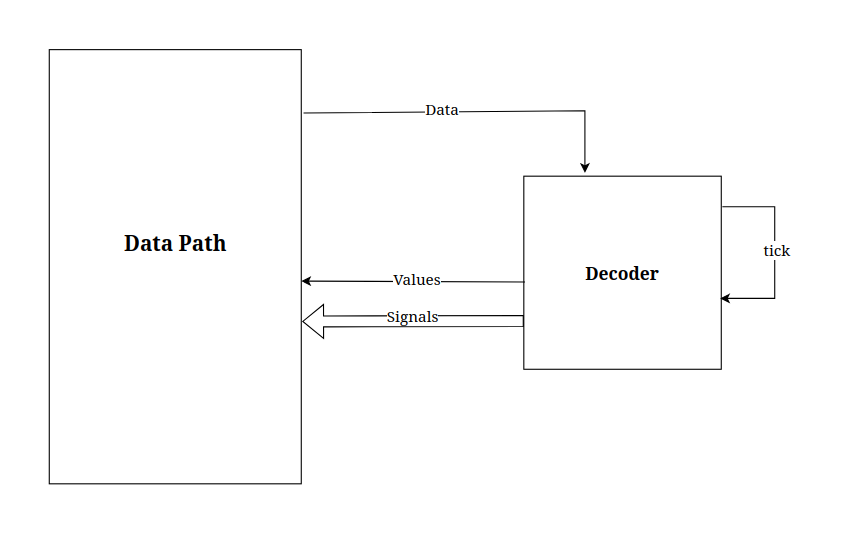
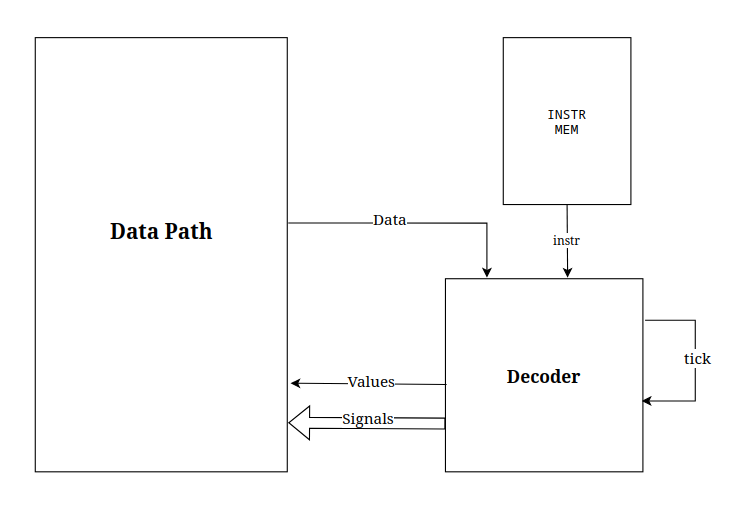
small fix

diff --git a/README.md b/README.md
@@ -58,37 +58,35 @@ csa3
 
 Память содержит `2^11` ячеек
 
-Память представляет из себя четыре секции:
+Память представляет из себя два раздела:
 
 ```text
-    +-----------------+
-    |   JMP_TO_START  |
-    |   JMP_TO_INT    |
-    +-----------------+
-    |      DATA       |
-    |                 |
-    |                 |
-    |                 |
-    +-----------------+
-    |      CODE       |
-    |                 |
-    |                 |
-    |                 |
-    +-----------------+
-            ...
-    +-----------------+
-    |      STACK      |
-    |                 |
-    |                 |
-    +-----------------+
+    +-----------------+       +-----------------+
+    |                 |       |   JMP_TO_INT    |
+    |                 |       +-----------------+
+    |                 |       |                 |
+    |                 |       |                 |
+    |                 |       |                 |
+    +      DATA       +       |                 |
+    |                 |       |                 |
+    |                 |       |                 |
+    |                 |       |                 |
+    |                 |       |      INSTR      |
+    |                 |       |                 |
+    +-----------------+       |                 |
+            ...               |                 |
+    +-----------------+       |                 |
+    |      STACK      |       |                 |
+    |                 |       |                 |
+    |                 |       |                 |
+    +-----------------+       +-----------------+
 ```
 
-* `JMP_TO_START` - храниться адрес первой команды из секции `CODE`.
 * `JMP_TO_INT` - переменная в которой, храниться адрес первой команды, которая выполнится при вызове прерывании 
 
 * `DATA` - раздел, в котором хранятся переменные, строки и массивы, созданные в секции "section .data" подряд в том же порядке, в котором они перечислены в коде.
 
-* `CODE` - раздел, в котором хранятся инструкции, описанные в секции "section .text".
+* `INSTR` - раздел, в котором хранятся инструкции, описанные в секции "section .text".
 
 * `STACK` - раздел, в котором сохраняются данные при вызове прерывания. 
 
@@ -124,7 +122,7 @@ csa3
 2. Цикл выборки операнда и исполнения
 3. Цикл прерывания(проверяется, не произошел ли запрос на прерывание)
 
-Некоторые инструкции могут принимать три операнда. В таком случае при трансляции сложная инструкция преобразуется в две простых.
+Некоторые инструкции могут принимать более двух операндов. В таком случае при трансляции сложная инструкция преобразуется в N простых.
 
 ``` asm
 add %rax #var1              ; %rax + #var1           -> %rax
@@ -191,35 +189,37 @@ add %rax #var1 #var2        ; (%rax + #var1) + #var2 -> %rax
 3. Парсинг кода построчно, определение типа команды и тип адресации 
 4. Генерация машинного кода в зависимости от типа команды
 
-На вход принимает два файла:
-* Файл с программой на языке высокого уровня.
-* Путь к файлу, в который будет записана программа в машинных словах
+На вход принимает четыре файла:
+* Файл с программой на языке высокого уровня, файл с данными.
+* Путь к файлу, в который будет записана программа в машинных словах, путь к файлу, куда будет записана бинарная память
 
 ## Пример использования языка
 
 Программа:
 ``` asm
 section .data
-      var1: -10                                   ; создается переменная var1 со значением -10
-      var2: 5                                     ; создается переменная var2 со значением 5
-      buf1: buf 20 2                              ; создается массив длины 20 каждая ячейка которого заполняется значением 2
-      name: "Hello"                               ; создается массив первый элемент это длина строки, а дальше идут коды символов
-      index: name                                 ; создается ссылка на адрес начала массива name
-  section .text
-      mov %rax *index                             ; записывает в регистр rax значение, которое лежит по адресу index(длину строки)
-      add #index 1
-      .loop: add buf1[1] name[0] #var1 *index     ; устанавливается метка
-                                                  ; затем складывается второе значение из массива buf1 с длиной строки name
-                                                  ; дальше добавляется значение переменной var1
-                                                  ; и добавляется значение, которое лежит по адресу index
-                                                  ; сохраняет получившийся результат во вторую ячейку массива buf1
-      movo !1 *index                              ; выводит букву на которую указывает index
-      add #index 1                                ; добавляет к переменной единицу index и сохраняет ответ в index
-      sub #var2 1                                 ; вычитает из переменной var2 единицу и сохраняет ответ в var2
-      jnz .loop                                   ; если не установлен флаг Z, то перейти по метке loop
-      hlt           
+    var1: -10                                   ; создается переменная var1 со значением -10
+    var2: 5                                     ; создается переменная var2 со значением 5
+    buf1: buf 20 2                              ; создается массив длины 20 каждая ячейка которого заполняется значением 2
+    name: "Hello"                               ; создается массив первый элемент это длина строки, а дальше идут коды символов
+    index: name                                 ; создается ссылка на адрес начала массива name
 ```
-Трансляция:
+
+``` asm
+section .text
+    mov %rax *index                             ; записывает в регистр rax значение, которое лежит по адресу index(длину строки)
+    .loop: add buf1[1] #var1 *index     ; устанавливается метка
+                                                ; затем складывается второе значение из массива buf1 с длиной строки name
+                                                ; дальше добавляется значение переменной var1
+                                                ; и добавляется значение, которое лежит по адресу index
+                                                ; сохраняет получившийся результат во вторую ячейку массива buf1
+    movo !1 *index                              ; выводит букву на которую указывает index
+    add #index 1                                ; добавляет к переменной единицу index и сохраняет ответ в index
+    sub #var2 1                                 ; вычитает из переменной var2 единицу и сохраняет ответ в var2
+    jnz .loop                                   ; если не установлен флаг Z, то перейти по метке loop
+    hlt                                         ; конец программы
+```
+Трансляция (data, text):
 ```text
   0 0000000001f000000000 31
   1 00000000000000000000 0
@@ -245,23 +245,24 @@ section .data
   21 00000000002000000000 2
   22 00000000002000000000 2
   23 00000000002000000000 2
-  24 00000000005000000000 5
-  25 00000000048000000000 72
-  26 00000000065000000000 101
+  24 00000000048000000000 72
+  25 00000000065000000000 101
+  26 0000000006c000000000 108
   27 0000000006c000000000 108
-  28 0000000006c000000000 108
-  29 0000000006f000000000 111
+  28 0000000006f000000000 111
+  29 00000000000000000000 0
   30 00000000018000000000 24
-  31 0a10000000040000001e mov %rax *30
-  32 0120000001e000000001 add #30 1
-  33 01200000005200000018 add #5 #24
-  34 01200000005200000002 add #5 #2
-  35 0120000000540000001e add #5 *30
-  36 0c30000000140000001e movo !1 *30
-  37 0120000001e000000001 add #30 1
-  38 02200000003000000001 sub #3 1
-  39 0f000000021000000000 jnz 33
-  40 15000000000000000000 hlt
+```
+
+```text
+  0 0a10000000040000001e mov %rax *30
+  1 01200000005200000002 add #5 #2
+  2 0120000000540000001e add #5 *30
+  3 0c30000000140000001e movo !1 *30
+  4 0120000001e000000001 add #30 1
+  5 02200000003000000001 sub #3 1
+  6 0f000000001000000000 jnz 1
+  7 15000000000000000000 hlt
 ```
 
 Лог работы процессора:
@@ -335,9 +336,7 @@ section .data
 
 
 * `set_mod` - воспринимать значение как данные или адрес
-* `get_ins` - отправить инструкцию в CU
-* `instruction` - инструкция из памяти, которая передается в CU
-* `addr` - адрес, по которому надо взять значение при чтении или куда записать
+* `data` - данные из памяти, которые передается в CU
 * `sel_arg` - передать дальше первый или второй аргумент
 
 ### ControlUnit
